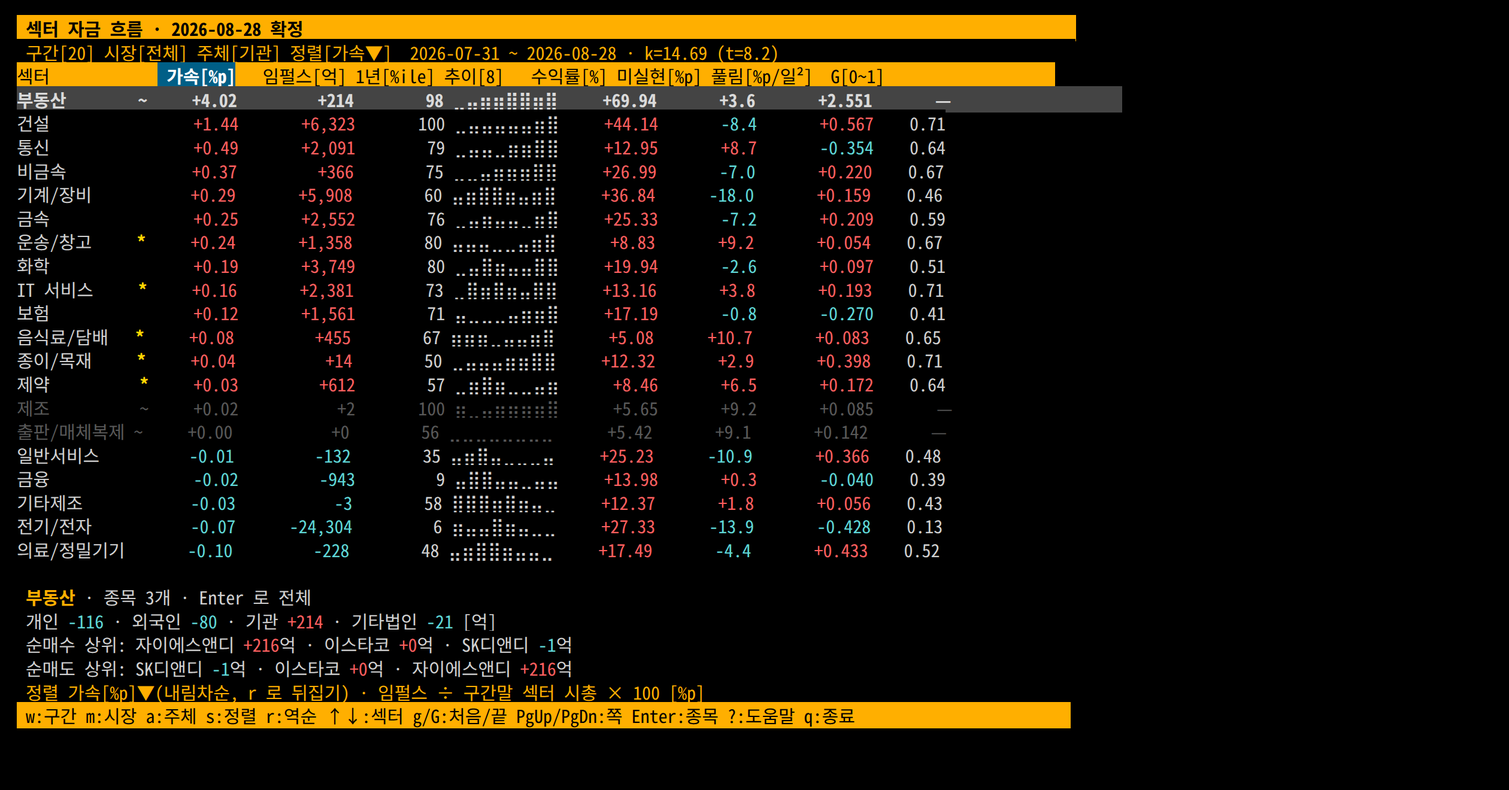
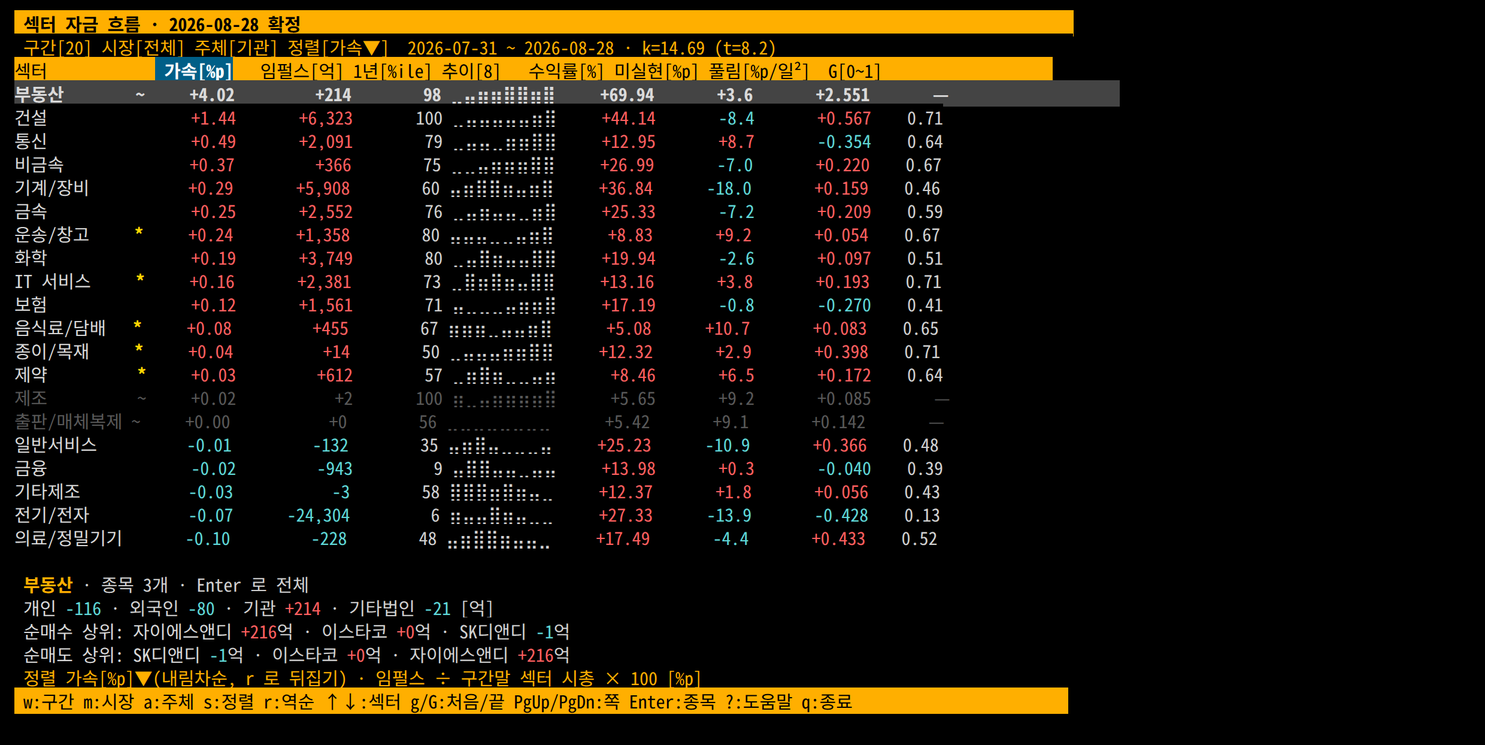
docs(readme): 화면이 넉 달 앞서 가 있었다 — 문서를 코드로 다시 맞춘다
README 를 쓴 뒤 종목 목록에 열 넷(투신·연기금·상대수익·최근집중)이 생기고
열 순서가 바뀌었는데, 문서는 옛 화면을 설명하고 스크린샷 넉 장에는 옛 화면이
그대로 박혀 있었다. 코드(`Col(...)`·`HELP`·`HINT_DESC`·`FOOTER_TIERS`)를 진실
원천으로 삼아 전문을 대조했다.

**등장 문턱을 다시 쟀다.** 적혀 있던 값은 전부 한 칸씩 작았다 — **뷰 폭**
(터미널 폭 − 1)으로 잰 것을 터미널 폭인 양 적어서, "80칸이면 보인다" 던 열이
실제 80칸에서 안 보였다. 자르기 함수에 `view_width(w)` 를 넣고 폭 40~240 을
훑어 다시 쟀다(수익률 69 · 미실현 80 · … · 종목[수] 184, 종목 목록은 참여율·
거래대금 116 · 시총 143).

**정의가 바뀐 것들.** `종목[수]` 는 상장 수가 아니라 그 구간에 거래된 수다
(드릴다운 목록 길이와 정확히 같다). `포텐셜` 은 k ≤ 0 인 블록에서 결측이다
(5일·코스닥 k=−0.587). 종합은 세 창이고 정렬이 없다(`정렬없음[G 순]`).
드릴다운 제목은 `20일 기준(종합)` 이다.

**동시성 범위를 잰 범위·잰 조건과 같이 적는다.** 표에 있던 0.17/0.23/0.24/0.47
은 근거 스크립트의 260일 값이지 화면의 범위가 아니었다 — 12조합 전수는
2~38%(개인·기관·외국인) / 41~52%(기타법인)이고, `d` 로 β제거를 켜면 셋도
17~53% 라 판정이 뒤집히는 조합이 생긴다. `기관 = 세부의 합` 이 아니라는 실측도
데이터 스키마 표에 박았다(674,480행 중 8.9%가 다르다).

**참여율은 혼자 두면 안 된다는 사실을 본문에 올렸다** — 11~14% 구간에
DB금융스팩12호(거래대금 3억)와 삼성SDI(43,543억)가 같이 있다. 그리고 새 열
넷을 사용자가 실제로 읽는 다섯 단계(금액 → 성격 → 타이밍 → 가격 → 체결
가능성)로 묶었다. 그 순서가 곧 열 순서다.

스크린샷은 tmux(120×30) → `capture-pane -p -e` → ANSI→HTML → chrome
`--headless --screenshot` 으로 다시 찍었고, `kq-ledger` 한 장을 더했다 — CLI
셋을 소개하면서 원장 화면이 없었다.

`KR_QUANT_FORCE=1 scripts/daily_report.sh` 를 §2.1 에 넣었다. 폴더가 이미
있으면 배치가 조용히 건너뛰므로, 그 문을 여는 법이 문서에 없으면 사용자는
새 열이 통째로 비어 있는 화면만 보게 된다.

검증: `uv run --extra dev pytest tests/ -q` → 516 passed, 3 skipped.
ruff·check_guardrails·prop_gate·`kq-ledger --dump --width 100` 전부 실행 확인.
상대경로 링크·앵커 전수 검사 통과(alpha-research 의 README 앵커 하나가 깨져
있어 같이 고쳤다).

Changed region(s): [[0.0, 0.0, 0.7452, 0.9775], [0.7452, 0.0916, 0.7762, 0.1527]]

diff --git a/README.md b/README.md
@@ -34,14 +34,16 @@
 ## 1. kqflow — 무엇을 보여주나
 
 `kq-flow` 는 **오늘 어느 섹터에 돈이 들어오고 나갔는지**를 한 화면에 놓는다. 27개 벤더
-섹터 × 4개 구간(5·20·60·120거래일) × 3개 시장(전체·거래소·코스닥) × 4개 주체(기관·
-외국인·개인·기타법인)를 키 하나로 갈아 끼운다.
+섹터 × 4개 구간(5·20·60·120거래일)과 이를 요약하는 `종합` × 3개 시장(전체·거래소·코스닥)
+× 4개 주체(기관·외국인·개인·기타법인)를 키 하나로 갈아 끼운다.
 
-<!-- SCREENSHOT: 기본 20일 화면 -->
-![기본 20일 화면. 섹터 이름 왼쪽부터 종목 수·G·임펄스·가속·1년 백분위·누적 추이 막대·구간 수익률·미실현·풀림, 오른쪽 끝에 그 섹터에서 가장 많이 산 종목과 금액. 가속 내림차순으로 정렬돼 있다.](docs/images/kqflow-table.png)
+<!-- SCREENSHOT: 기본 20일 화면 (120×30) -->
+![기본 20일 화면. 섹터 이름 오른쪽으로 가속·임펄스·1년 백분위·누적 추이 막대·구간
+수익률·미실현·풀림·G 가 늘어서 있고 가속 내림차순이다. 아래 패널에 선택 섹터의 4주체
+순매수와 순매수·순매도 상위 3개, 그 아래 정렬 열 한 줄 설명과 키 푸터가 있다.](docs/images/kqflow-table.png)
 
-*기본 화면(20거래일·전체 시장·기관). 한 행이 한 섹터이고, 가속 내림차순이다. 아래
-패널은 선택한 섹터의 순매수·순매도 상위 종목을 보여준다.*
+*기본 화면(20거래일·전체 시장·기관, 120×30). 한 행이 한 섹터이고, 가속 내림차순이다.
+폭 120 에는 여기까지 들어간다 — 순매수·순매도 상위는 125칸부터 나온다(§3.2).*
 
 금액만 보면 대형 섹터가 늘 이긴다. 그래서 기본 정렬은 **가속**(구간 누적 순매수 ÷ 섹터
 시총)이다 — 규모로 정규화한 유입이라 "삼성전자가 있는 섹터" 가 자동으로 1등이 되지 않는다.
@@ -49,11 +51,13 @@
 `Enter` 를 누르면 그 섹터의 전 종목이 금액순으로 펼쳐진다. 섹터 합계가 어느 종목에서
 나왔는지 — 실측상 전기/전자 386종목 중 **7개**가 그 섹터 흐름의 80%를 설명한다.
 
-<!-- SCREENSHOT: Enter 드릴다운 종목 목록 -->
-![드릴다운 종목 목록. 종목명·코드·순매수 금액·누적 기여율·참여율·시총대비·시총·거래대금
-여덟 열이 순매수 절댓값 순으로 늘어서 있고, 누적 80% 지점에 마커가 찍혀 있다.](docs/images/kqflow-names.png)
+<!-- SCREENSHOT: Enter 드릴다운 종목 목록 (120×30) -->
+![드릴다운 종목 목록. 종목명·코드·순매수·누적 기여율·투신·연기금·상대수익·최근집중·
+참여율·거래대금 열이 순매수 절댓값 순으로 늘어서 있고, 누적 80% 지점(엘앤에프)에
+`-` 마커가 찍혀 있다.](docs/images/kqflow-names.png)
 
-*`Enter` 드릴다운. 누적[%] 열의 `-` 마커 위쪽이 그 섹터를 실제로 움직인 종목이다.*
+*`Enter` 드릴다운(전기/전자, 20일). 누적[%] 열의 `-` 마커 위쪽 7개가 그 섹터를 실제로
+움직인 종목이다 — 386종목의 나머지는 스크롤할 0 이다.*
 
 DB 에 접속하지 않는다. 일일 배치가 만들어 둔 리포트 JSON 만 읽으므로 SSH 에서 즉시 뜨고,
 화면과 HTML 표가 **같은 숫자**를 본다.
@@ -79,6 +83,17 @@ scripts/daily_report.sh
 돌면 이미 있는 폴더를 보고 건너뛴다. 기본 출력 위치는 `~/Documents/kr-quant-reports/<기준일>`
 이고 `latest` 심볼릭 링크가 따라 움직인다(`KR_QUANT_REPORTS` 로 바꾼다). cron 에 그대로 건다.
 
+⚠ **리포트 형식이 바뀌면 그 건너뛰기가 발목을 잡는다.** 폴더가 이미 있으면 배치는 조용히
+넘어가므로, 열이 새로 생겨도 **다음 거래일까지 옛 리포트가 그대로 뜬다** — 화면에서는 새 열
+넷이 통째로 `—` 인 빈 칸으로 보인다(종목 목록 제목에 `옛 리포트(새 열 없음)` 가 뜬다).
+그럴 때 문을 여는 것이 `KR_QUANT_FORCE` 다.
+
+```bash
+KR_QUANT_FORCE=1 scripts/daily_report.sh     # 같은 기준일이어도 다시 만든다 (약 5~6분)
+```
+
+옆에 새로 지어 마지막에 바꿔 끼우므로, 도중에 실패하면 옛 리포트가 그대로 남는다.
+
 배치가 하는 일을 손으로 풀면 이렇다.
 
 ```bash
@@ -101,7 +116,8 @@ kq-ledger --dump --width 100     # 색 없는 평문 — 파이프·리다이렉
 
 표준 라이브러리 `curses` 만 쓴다. 새 의존성이 없고, 40×10 짜리 창에서도 산다 — 폭이
 모자라면 열이 **경계에서 통째로** 빠진다(숫자가 자릿수 중간에서 잘려 다른 값처럼 보이지
-않게). `NO_COLOR` 를 존중한다.
+않게). 원장 표만 예외로 **71칸 미만이면 안 그리고 그 사실을 적는다** — 4주체와 잔여가
+한 덩어리라, 일부만 보여주면 회계 항등식이 깨진 것처럼 읽힌다. `NO_COLOR` 를 존중한다.
 
 ## 3. 화면 읽는 법
 
@@ -120,8 +136,15 @@ kq-ledger --dump --width 100     # 색 없는 평문 — 파이프·리다이렉
 | `?` `F1` | 도움말 — 모든 열의 뜻과 계산식이 여기 있다 |
 | `q` | 종료. 도움말 안에서는 닫기만 한다 |
 
-한영 상태에서도 위 키가 그대로 듣는다. 다만 자판이 Shift 를 구분하지 않는 자리가 있어
-**대문자 역방향은 `W`·`R` 만** 된다(끝으로 가려면 End).
+한영 상태에서도 위 키가 그대로 듣는다(두벌식 자리를 그대로 대응시킨다 — `ㅈ`→`w`,
+`ㅡ`→`m`, `ㅁ`→`a`, `ㄴ`→`s`, `ㄱ`→`r`). 다만 두벌식은 이 자리들에서 Shift 를 구분하지
+않으므로 **대문자 역방향은 `W`·`R` 만** 되고 `A`·`S`·`G`·`M` 은 원리적으로 못 받는다
+(끝으로 가려면 End). `kq-ledger` 도 같다.
+
+화면 맨 아래 푸터는 폭에 맞춰 **단계별로** 줄어든다. 대문자 역방향은 **안 적는다** —
+한 키의 두 방향을 다 적으니 푸터가 길어져 정작 무슨 키가 있는지가 안 읽혔다. `g/G:처음/끝`
+은 남는다(`G` 는 `g` 의 역방향이 아니라 별개 동작이라, 안 적으면 목록 끝으로 가는 길이
+화면에서 사라진다). 어느 단계에서도 `?` 는 남으므로 줄어든 푸터가 "여기가 전부" 는 아니다.
 
 도움말(`?`)은 이 README 의 축약본이 아니라 **원본**이다. 열 하나하나의 정의와 한계가
 화면 안에 있어서, 리포트를 보다가 "이 숫자가 뭐냐" 를 물을 자리에 답이 있다.
@@ -130,18 +153,26 @@ kq-ledger --dump --width 100     # 색 없는 평문 — 파이프·리다이렉
 ![도움말 화면. 키 목록과 섹터 표 각 열의 정의가 한 줄씩 적혀 있고, 열 설명에는 계산식과
 함께 그 값의 한계(추정치·상대 지표·검증 안 됨)가 붙어 있다.](docs/images/kqflow-help.png)
 
-*`?` 도움말. 86줄을 스크롤하며 읽는다 — 열의 뜻과 그 열의 한계가 같은 자리에 있다.*
+*`?` 도움말. 130줄을 스크롤하며 읽는다 — 열의 뜻과 그 열의 한계가 같은 자리에 있다.
+`kq-ledger` 도 같은 렌더러로 자기 도움말을 그린다.*
 
 ### 3.2 섹터 표의 열
 
 화면에 나오는 **왼쪽부터의 순서**다. 폭이 모자라면 오른쪽 열부터 통째로 빠지므로,
-좁은 터미널에서는 아래 표의 뒤쪽이 없다. 실측한 등장 문턱(칸): 수익률 68 · 미실현 79 ·
-풀림 92 · G 100 · 순매수상위 124 · 순매도상위 148 · 포텐셜 161 · dW/dt 174 · 종목[수] 183.
+좁은 터미널에서는 아래 표의 뒤쪽이 없다. 실측한 등장 문턱(**터미널 칸**): 1년 49 · 추이 58 ·
+수익률 69 · 미실현 80 · 풀림 93 · G 101 · 순매수상위 125 · 순매도상위 149 · 포텐셜 162 ·
+dW/dt 175 · 종목[수] 184. 앞의 넷(섹터·마커·가속·임펄스)은 40칸에서도 남는다.
+
+> 이 숫자는 예전에 한 칸씩 작게 적혀 있었다. 뷰가 쓸 수 있는 폭은 터미널 폭 − 1 이라
+> (`view_width`, curses 가 오른쪽 아래 칸에 쓰면 스크롤한다), **뷰 폭**으로 잰 값을
+> 터미널 폭인 것처럼 적으면 "80칸이면 보인다" 던 열이 실제 80칸에서 안 보인다.
+> 위 값은 `flow_view` 의 자르기 함수(섹터 표는 `_fit(table_cols(...))`, 종목 목록은
+> `fit_names`)에 `view_width(w)` 를 넣고 폭 40~240 을 훑어 다시 잰 것이다.
 
 | 열 | 뜻 |
 |---|---|
 | 섹터 | 벤더 분류(`stocks.sector`) 27개. **KRX 업종 분류와 다르다** |
-| (마커) | 섹터 이름 오른쪽의 `~` 는 상장 종목 10개 미만, `*` 는 세 조건(a>0·x>0·ẍ>0)을 다 만족. `~` 행은 회색으로 죽인다 — 벤더 분류가 좁아 사실상 단일종목인 라벨이 있다(부동산 3, 출판/매체복제 2) |
+| (마커) | 섹터 이름 오른쪽의 `~` 는 거래된 종목 10개 미만, `*` 는 세 조건(a>0·x>0·ẍ>0)을 다 만족. `~` 행은 회색으로 죽인다 — 벤더 분류가 좁아 사실상 단일종목인 라벨이 있다(부동산 3, 출판/매체복제 2) |
 | 가속[%p] | 임펄스 ÷ 구간말 섹터 시총 × 100. 물리로 a = F/m. **기본 정렬 열**이다 |
 | 임펄스[억] | 구간 누적 순매수 = Σ(순매매 수량 × 그날 종가) |
 | 1년[%ile] | 그 주체의 롤링 N일 순매수 합이 **최근 1년 분포에서 몇 등**인가. 100=1년 최대 매수. 이 표에서 **유일한 시계열 맥락**이다(나머지는 전부 27개 섹터 사이의 상대순위) |
@@ -151,17 +182,23 @@ kq-ledger --dump --width 100     # 색 없는 평문 — 파이프·리다이렉
 | 풀림[%p/일²] | 미실현이 해소되는 가속(ẍ). 구간을 셋으로 갈라 중앙차분한다 — 2차 차분이라 짧은 구간에서 흔들린다 |
 | G[0~1] | 성장 점수. 가속·미실현·풀림 세 순위의 평균. **검증된 적 없는 탐색 지표다** |
 | 순매수/순매도상위[억] | 그 섹터에서 가장 많이 산/판 종목과 금액. 표는 1개씩, 하단 패널은 3개씩 — 같은 목록의 위/아래 끝이다 |
-| 포텐셜[½kx²] | ½·k·x². k 가 블록당 상수라 **\|미실현\| 의 순증가 변환**이다(4개 구간 전부 Spearman 1.0000) — 정보가 겹쳐서 넓은 폭에서만 나온다 |
+| 포텐셜[½kx²] | ½·k·x². k 가 블록당 상수라 **k>0 인 블록에서만** \|미실현\| 의 순증가 변환이다(실측 2026-08-28, 창 4 × 시장 3 = 12블록 전수 중 k>0 인 11블록에서 Spearman 1.0000). **k ≤ 0 인 블록에서는 이 열이 통째로 `—` 다** — 5일·코스닥이 그렇다(k=−0.587, t=−0.24: 22개 섹터 전부 U<0, ρ=−1.0000이라 "포텐셜 큰 순" 이 정반대 순서가 된다). 뜻을 잃은 값은 안 보여준다 |
 | dW/dt[%p/일] | 구간을 반으로 갈라 본 W=가속×수익률 의 변화. 힘과 운동이 정렬되는가 |
-| 종목[수] | 그 (시장,섹터)의 상장 종목 수. 오른쪽 끝 열이다 |
+| 종목[수] | 그 (시장,섹터)에서 **이 구간에 거래된** 종목 수 — `Enter` 로 여는 목록의 길이와 **정확히 같다.** '상장 종목 수' 가 아니다: 벤더 마스터에는 수급 보고가 두 달 전에 끊긴 이름이 남아 있어, 그걸 세면 표가 387 이라 하고 목록은 386 개가 된다(실측). 오른쪽 끝 열이다 |
 
-표 아래 패널은 선택한 섹터를 세 줄로 푼다.
+표 아래 패널은 선택한 섹터를 네 줄로 푼다.
 
+- **제목** — `부동산 · 종목 3개 · Enter 로 전체`. 이 줄에서 "무엇을 보고 있는가" 를 말하는
+  건 **섹터 이름 하나**뿐이라 그것만 강조하고 나머지는 죽인다. 미실현·포텐셜은 여기서
+  뺐다 — 미실현은 위 표에 이미 숫자로 있고, 포텐셜은 x 가 제곱돼 부호가 죽으므로
+  (+2.9 인 섹터와 −2.9 인 섹터가 같은 U 를 받는다) 방향이 논지인 이 줄에서 할 일이 없다.
 - **4주체 순매수** — `개인 -116 · 외국인 -80 · 기관 +214 · 기타법인 -21 [억]`. 화면은
   한 번에 한 주체만 보여주므로 "기관이 팔았다" 까지는 알아도 **누가 받았는지**는 안
   보였는데, 4주체 합이 0 에 닫히므로 그 답은 같은 페이로드 안에 이미 있다. 지금 고른
-  주체도 여기 같이 들어간다(위 표에서 보던 그 값이다). 잔여(= −Σ4주체)는 여기 안 적고
-  `kq-ledger` 가 별도 열로 맡는다. 종합 구간에서는 줄 끝에 `· 20일 기준` 이 붙는다.
+  주체도 여기 같이 들어간다(위 표에서 보던 그 값이다). 라벨은 안 붙인다 — 붙어 있던
+  `반대편:` 은 **틀린 이름이었다.** 이 줄은 선택한 주체까지 넷을 다 적는데 "반대편" 은
+  선택 주체를 뺀 나머지를 뜻한다. 잔여(= −Σ4주체)는 여기 안 적고 `kq-ledger` 가 별도
+  열로 맡는다. 종합 구간에서는 줄 끝에 `· 20일 기준` 이 붙는다.
 - **순매수 상위 / 순매도 상위** — 각각 3개씩. 표의 같은 열이 1개씩만 보여주던 목록의
   위·아래 끝이다.
 
@@ -170,19 +207,59 @@ kq-ledger --dump --width 100     # 색 없는 평문 — 파이프·리다이렉
 
 ### 3.3 종목 목록의 열 (`Enter`)
 
-| 열 | 뜻 |
-|---|---|
-| 순매수[억] | 그 구간 **선택된 주체**의 순매수. 기본 정렬은 이것의 **절댓값** 순 — 많이 산 종목과 많이 판 종목이 같이 위로 온다 |
-| 누적[%] | \|순매수\| 큰 순으로 훑을 때의 누적 기여율. `-` 마커가 80% 지점이고, 그 위가 이 섹터를 움직인 종목이다 |
-| 참여율[%] | 순매수 ÷ 그 종목 거래대금 × 100. "그 거래의 몇 %가 한 방향이었나" — 분모가 유동성이라 **살 수 있는 종목인가**를 같이 말한다 |
-| 시총대비[%p] | 순매수 ÷ 그 종목 시총 × 100. 시총 작은 스팩이 위로 올라온다 |
-| 시총 · 거래대금[억] | 위 두 열의 분모 |
+제목 줄이 먼저 `전기/전자 · 종목 386개 · 20일 기준 · 정렬[순매수]` 라고 어느 섹터·몇
+종목·어느 창·어느 정렬인지 적는다. 그 아래 열은 **왼쪽부터 이 순서**다.
+
+| 열 | 뜻 | 등장 문턱(칸) |
+|---|---|---:|
+| 종목 · 코드 | 종목명과 6자리 코드 | 40 |
+| 순매수[억] | 그 구간 **선택된 주체**의 순매수. 기본 정렬은 이것의 **절댓값** 순 — 많이 산 종목과 많이 판 종목이 같이 위로 온다 | 40 |
+| 누적[%] | \|순매수\| 큰 순으로 훑을 때의 누적 기여율. 바로 옆 1칸 열의 `-` 마커가 80% 지점이고, 그 위가 이 섹터를 움직인 종목이다. **순매수 정렬에서만** 채운다 — 시총·이름 순의 누적은 뜻이 없다 | 45 |
+| 투신[억] | 그 구간 **투신**(자산운용)의 순매수. **선택 주체와 무관하게** 늘 기관 세부다 | 56 |
+| 연기금[억] | 그 구간 **연기금**(국민연금 등)의 순매수 | 67 |
+| 상대수익[%p] | 종목 구간수익률 − **섹터** 구간수익률. 기준선은 섹터 표의 `수익률[%]` 열과 **같은 값**이다. 섹터의 미실현(x)을 종목에 내리지 않는다 — 그 k·b 는 27개 섹터 횡단면에서 적합된 것이지 2,645종목 위에서 적합된 적이 없다. 뺄셈이 회귀 없이 같은 질문에 답한다 | 80 |
+| 최근집중[%] | 5일 순매수 ÷ **이 창**의 순매수 × 100. 20일 화면에서 ≈25 면 고르게 분산(꾸준히 담는 중) · ≈100 이면 20일치가 최근 5일에 몰림 · >100 이면 앞에서는 팔다 최근에 방향을 튼 것 · **음수면** 최근 5일이 구간 전체와 반대 방향. 세 자리에서 비운다 — 분모 1억 미만 · 5일 창(분자=분모라 늘 100) · 그 목록 Σ\|순매수\| 의 0.5% 미만인 줄(볼 이유가 없는 줄이 화면에서 가장 큰 숫자를 달던 자리다). ±999 를 넘으면 `>999`·`<-999` 로 적는다 | 92 |
+| 참여율[%] | 순매수 ÷ 그 종목 거래대금 × 100. "얼마나 붐볐나" 가 아니라 **"그 거래의 몇 %가 한 방향이었나"** 다 | 116 |
+| 거래대금[억] | 참여율의 분모. 참여율과 **한 짝**이라 같이 남거나 같이 빠진다(아래) | 116 |
+| 시총대비[%p] | 순매수 ÷ 그 종목 시총 × 100. 시총 작은 스팩이 위로 올라온다 | 129 |
+| 시총[억] | 시총대비의 분모 | 143 |
+
+**투신·연기금이 왜 따로 있나.** 기관 총액이 같아도 이 둘이 채운 것과 금투(증권사
+자기매매 — 헤지·차익이 섞여 방향성이 약하다)가 채운 것은 다른 이야기인데, `기관` 한
+덩어리에는 그 구분이 없다. 실측 20거래일: **SK하이닉스 기관 −13,157억인데 투신 +1,549 ·
+연기금 +4,614 · 금투 −22,611** 이다 — 총액만 보면 "판다" 지만 이 둘은 사고 있었다.
+
+#### 열 순서가 곧 읽는 순서다
+
+위 다섯 덩어리는 화면에서 실제로 훑는 순서와 같다.
+
+1. **순매수 · 누적** — 순매수 순으로 열고 `-` 마커(누적 80%) **위만** 본다. 전기/전자는
+   386종목 중 7개다. 아래는 스크롤할 0 이다.
+2. **투신 · 연기금** — 자금의 **성격**을 거른다. 그 7개가 투신·연기금이 채운 것인지
+   금투가 채운 것인지로 같은 금액이 다른 이야기가 된다.
+3. **최근집중** — **타이밍**. 20일치를 꾸준히 담았나(≈25), 최근 5일에 몰아 샀나(≈100),
+   앞에서 팔다 방향을 틀었나(>100).
+4. **상대수익** — **가격**. 섹터는 갔는데 이 종목은 안 갔나, 이미 갔나.
+5. **참여율 + 거래대금** — **체결 가능성**. 한 방향으로 얼마나 먹었고, 그 종목이 애초에
+   그만한 돈을 받아 줄 수 있는가.
+
+⚠ **참여율은 혼자 두면 안 된다.** 비율이라 유동성을 못 말한다 — 실측(2026-08-28, 20일)
+참여율 **11~14% 구간에 DB금융스팩12호(20일 거래대금 3억)와 삼성SDI(43,543억)가 같이
+있다.** 유동성이 1만 배 넘게 다른데 화면에는 같은 숫자만 남는다. 참여율만 보고 "기관이
+장악했다" 로 읽으면 살 수 없는 종목이 상단에 섞인다. 그래서 두 열은 `COL_PAIRS` 로
+묶여 **통째로 남거나 통째로 빠진다** — 폭이 모자라 거래대금이 떨어지면 참여율도 같이
+사라진다. "덜 보여준다" 가 아니라 **틀리게 읽힐 칸을 안 만든다**는 규칙이다.
+
+옛 리포트로 화면을 띄우면 새 열 넷(투신·연기금·상대수익·최근집중)이 통째로 `—` 이고,
+제목에 `· 옛 리포트(새 열 없음)` 가 붙는다. 고장이 아니라 그 리포트가 이 열들이 생기기
+전에 만들어진 것이다 — 다시 만드는 방법은 [§2.1](#21-리포트-만들기-db-필요) 에 있다.
 
 ⚠ **`종합` 에서 `Enter` 로 들어간 종목 목록은 20일 기준이다.** 종합은 세 창을 섞은
 축이라 "이 종목이 얼마를 샀나" 가 한 값으로 정의되지 않는다. 그래서 드릴다운은 20일
-창의 금액을 쓴다(`flow_view.py` 의 `win = self.window if self.window != "종합" else "20"`).
-60·120일 금액을 보려면 `w` 로 그 구간에 들어간 뒤 `Enter` 를 눌러라. 종합 화면의 상세
-패널도 같은 이유로 4주체 줄 끝에 `· 20일 기준` 을 달고 있다.
+창의 금액을 쓰고, 제목도 `20일 기준(종합)` 이라 적는다(`flow_view.py` 의
+`State.COMBINED_WIN = "20"`). 60·120일 금액을 보려면 `w` 로
+그 구간에 들어간 뒤 `Enter` 를 눌러라. 종합 화면의 상세 패널도 같은 이유로 4주체 줄
+끝에 `· 20일 기준` 을 달고 있다.
 
 ### 3.4 `종합` 구간
 
@@ -195,17 +272,19 @@ kq-ledger --dump --width 100     # 색 없는 평문 — 파이프·리다이렉
 (`sector_numbers.py:381-383`) 5일이 저절로 빠진다. **누가 5일을 빼기로 결정한 것이 아니라
 2차 차분이 5일치 데이터를 못 받는 것이다.**
 
-<!-- SCREENSHOT: 종합 구간 -->
-![종합 구간 화면. 섹터마다 종합 G 와 20일·60일·120일 각각의 G, 세 조건을 만족한 창의
-수(통과[구간]), 종목 수만 있는 좁은 표.](docs/images/kqflow-combined.png)
+<!-- SCREENSHOT: 종합 구간 (120×30) -->
+![종합 구간 화면. 헤더가 정렬없음[G 순] · 구간 20·60·120일 등가중 이라 적혀 있고,
+섹터마다 종합 G 와 20일·60일·120일 각각의 G, 세 조건을 만족한 창의 수(통과[구간]),
+종목 수만 있는 좁은 표.](docs/images/kqflow-combined.png)
 
 *`종합` 화면. 열이 G 뿐인 것은 뜻이 있다 — 한 창에서만 좋은 섹터와 세 창에서 내내 좋은
 섹터를 갈라 보는 화면이라, 금액·수익률은 개별 구간 화면이 답한다.*
 
 **이 화면에는 정렬이 없다.** `종합 G` 내림차순 고정이고 `s`·`r` 은 듣지 않는다 —
-화면도 그렇게 말한다(방향 화살표를 아예 안 그린다). 창마다 정렬 축이 달라지면 "세 창을
-나란히 본다" 는 이 화면의 용도가 무너지기 때문이다. 금액·수익률로 줄을 세우려면 `w` 로
-개별 구간에 들어가라.
+화면도 그렇게 말한다. 헤더가 `정렬[가속▼]` 대신 **`정렬없음[G 순]`** 이라 적고 방향
+화살표를 아예 안 그리며, 힌트바 자리에는 `종합 화면은 구간별 G 를 나란히 볼 뿐,
+정렬·역순이 없다` 가 뜬다. 창마다 정렬 축이 달라지면 "세 창을 나란히 본다" 는 이 화면의
+용도가 무너지기 때문이다. 금액·수익률로 줄을 세우려면 `w` 로 개별 구간에 들어가라.
 
 ## 4. 자금 원장 — `kq-ledger`
 
@@ -224,23 +303,41 @@ kq-ledger --dump --width 100     # 색 없는 평문 — 파이프·리다이렉
 | 주체 → 주체 이전 | 주변합이 독립 3식인데 쌍별 이전량은 6개다 — 해공간이 3차원 남는 **미식별** |
 | 잔차를 4주체에 안분 | 안분하면 측정되지 않은 주체가 측정된 주체의 옷을 입는다. `잔여 = −Σ4주체` 를 별도 열로 남긴다 |
 
-첫 번째는 원론에 더해 **실측이 전제를 부정한다.** 섹터쌍 순매수 상관에서 음수 쌍의 비율:
+첫 번째는 원론에 더해 **실측이 전제를 부정한다.** 섹터쌍 순매수 상관에서 음수 쌍의 비율을
+시장 3 × 구간 4 = **12조합 전수**로 잰 범위다(2026-08-28, β제거 끈 상태).
 
-| 주체 | 관측 | 순환이동 널 |
+| 주체 | 관측(12조합 전수) | 순환이동 널 |
 |---|---:|---:|
-| 개인 | 0.17 | 0.50 |
-| 기관 | 0.23 | 0.50 |
-| 외국인 | 0.24 | 0.50 |
-| 기타법인 | 0.47 | 0.50 |
+| 개인 · 기관 · 외국인 | 2 ~ 38% | 50% |
+| 기타법인 | 41 ~ 52% | 50% |
 
 **개인·기관·외국인에서는 섹터가 서로 반대가 아니라 같이 움직인다** — 반대로 간 쌍이 우연보다
 **드물다.** 공통요인(위험선호)이 지배한다는 뜻이고, "로테이션" 을 전제한 산키 다이어그램은
-그 셋에 대해 없는 현상을 그리는 셈이다. 기타법인 0.47 은 널 0.50 과 구분되지 않아 어느
+그 셋에 대해 없는 현상을 그리는 셈이다. 기타법인 41~52% 는 널 50% 와 구분되지 않아 어느
 방향으로도 말할 것이 없다.
+
+⚠ **범위에는 조건이 붙는다.** 화면에서 `d` 로 β제거를 켜면 같은 12조합에서 셋도 17~53%
+가 되어 널(49~55%)과 구분되지 않는 조합이 생긴다 — "널보다 드물다" 는 판정 자체가 그
+설정에서는 유지되지 않는다. 예전 README·화면이 적던 `17~34%` 는 **잰 적 없는 좁은
+범위**였다(근거 스크립트의 260일 값을 화면의 범위인 양 옮겨 적은 것이다). 실측 주장은
+**잰 범위·잰 조건과 같이** 적어야 한다. 그래서 화면은 숫자를 외우게 하지 않고, 고른
+주체·구간에 대해 **상단 판정줄**이 그때그때 답한다.
 
 이 실측은 문서에 적어두는 대신 [`scripts/ledger_numbers.py`](scripts/ledger_numbers.py) 로
 재현한다 — 숫자가 바뀌면 설계도 다시 봐야 하기 때문이다. 한계는 각주가 아니라 **모든 화면
 최하단에 상주하는 한 줄**로 둔다.
+
+<!-- SCREENSHOT: kq-ledger 원장 화면 (120×30) -->
+![kq-ledger 원장 화면. 섹터마다 개인·외국인·기관·기타법인 순매수와 잔여·잔여몫·최대일몫·
+종목수, 오른쪽 끝에 선택 주체의 발산 막대. 최대일몫이 균등의 3배를 넘으면 ! 가 붙는다.
+맨 아래 줄에 관측·미관측이 상주한다.](docs/images/kqledger-table.png)
+
+*`kq-ledger` 원장 화면(20거래일·전체 시장·개인, 120×30). `kq-flow` 와 배색·여백·푸터·
+힌트바·제목 강조를 공유하고, 도움말도 같은 렌더러가 그린다. `잔여몫`·`최대일몫` 은
+분모(구간 gross)가 **1억 미만이면 값을 안 낸다** — 4주체가 서로 상쇄돼 분모가 0 근처로
+내려가면 비율이 폭발해 `최대일몫 33.3!` 같은 뜻 없는 값이 뜬다. `종목[수]` 는
+`kq-flow` 와 같은 정의(그 구간에 거래된 종목 수)다. `v` 로 **원장 · 전개 · 동시성 ·
+한계** 네 화면을 돈다 — 위 상관표는 `동시성` 화면이고, `d` 가 거기서 β제거를 켠다.*
 
 ## 5. 숫자의 정의
 
@@ -280,7 +377,10 @@ kq-ledger --dump --width 100     # 색 없는 평문 — 파이프·리다이렉
   같이 올라온다.
 - **금액은 종가 환산 근사다.** DB 는 수량만 준다(참값은 VWAP 가중).
 - **값 0 은 "관망"이 아니라 "0 또는 미보고"다** — 수집기가 파싱 실패를 0으로 준다.
-- **10종목 미만 섹터는 섹터로 읽지 않는다.** 벤더 분류가 좁아 사실상 단일종목인 라벨이 있다.
+- **그 구간에 거래된 종목이 10개 미만인 섹터는 섹터로 읽지 않는다**(`~` 마커·회색·G 순위
+  제외). 벤더 분류가 좁아 사실상 단일종목인 라벨이 있다(부동산 3, 출판/매체복제 2).
+- **`포텐셜`·`잔여몫`·`최대일몫`·`최근집중` 은 뜻을 잃는 자리에서 값을 안 낸다.** k ≤ 0 인
+  블록, 분모 1억 미만 — 고쳐 쓰지 않고 **결측으로 둔다.** 빈 칸은 고장이 아니다.
 
 ## 7. 리포트를 스스로 검증한다
 
@@ -345,7 +445,9 @@ src/kr_quant/
 ├── engine/ validation/ diagnostics/ features/ strategies/   # 알파 심사 라이브러리
 └── tui/                 # kq-flow · kq-ledger
     ├── flow_view.py     #   렌더는 순수함수 — curses 없이 단위테스트한다
-    └── flow_app.py      #   curses 는 화면 그리기와 키 입력만
+    ├── flow_app.py      #   curses 는 화면 그리기와 키 입력만
+    ├── ledger_view.py   #   원장도 같은 규칙 — 폭 자르기·도움말 렌더러는 공용이다
+    └── ledger_app.py
 scripts/                 # sector_flow · sector_numbers · verify_report · daily_report.sh
                          # ledger_numbers · check_guardrails · verify_merge
 research/                # 신호 정의 · 실험 러너 · VERDICT/TRIALS 원장
@@ -363,8 +465,8 @@ TUI 를 고친 뒤에는 [`scripts/verify_merge.py <워크트리>`](scripts/veri
 스크리너 제품이 아니라 관측·검증 도구라 그 밖의 엔트리포인트는 없다.
 
 ```bash
-uv run pytest                        # 네트워크·DB 불요 — 460건
-uv run ruff check .
+uv run --extra dev pytest            # 네트워크·DB 불요 — 516 통과 · 3 skip
+uv run --extra dev ruff check .
 uv run python scripts/check_guardrails.py    # 경계·판정·정문·하버스·신원 규율 검사
 ```
 

diff --git a/docs/alpha-research.md b/docs/alpha-research.md
@@ -327,7 +327,7 @@ CI 가 깨진다.
 - **만드는 것과 연결하는 것은 다른 일이다.** 반복된 실패 모드는 기능 부재가 아니라 배선 누락이었다. 그래서 지금은 배선이 빠지면 CI가 실패한다(§5).
 - **분포적 사고.** 평균이나 자본곡선이 아니라 개별 트레이드 분포로 보면 같은 데이터가 다르게 읽힌다. 볼록형/확산형 구분, 꼬리 집중도, 선험적 예측력은 이 렌즈에서만 드러난다.
 - **음성대조라는 규율.** "내 전략이 랜덤보다 나은가"는 단순하지만 대부분의 자기기만을 잡아낸다(순수 노이즈가 폴드 기준을 46% 통과한다).
-- **부류를 막는 검사.** 증상 하나를 고치는 대신 "두 값이 같은 집합·시점에서 나왔는가"를 코드가 매일 묻게 한다 — 일일 리포트의 D 계층 검증이 그것이다([README](../README.md#리포트를-스스로-검증한다)).
+- **부류를 막는 검사.** 증상 하나를 고치는 대신 "두 값이 같은 집합·시점에서 나왔는가"를 코드가 매일 묻게 한다 — 일일 리포트의 D 계층 검증이 그것이다([README](../README.md#7-리포트를-스스로-검증한다)).
 - **엔지니어링 토대.** PIT 데이터·무룩어헤드·읽기전용 분리·경계 린트·CI.
 - **무엇을 하지 않을지 아는 것.** 재현되지 않는 전략을 일찍 접는 것은 실패가 아니라 자본과 시간의 절약이다. VOID 판정처럼 **"이 데이터로는 심사 자체가 불가능하다"를 말할 수 있는 것**도 포함된다.
 
@@ -336,7 +336,7 @@ CI 가 깨진다.
 | 테이블 | 용도 |
 |---|---|
 | `stocks` | code, name, market, sector, kind. **현재 상장 마스터** — 조인하면 폐지 종목이 빠진다 |
-| `supply_demand` | 투자자별 수급 (개인·외국인·기관 + 기관 세부 8종, PK: code+date). 값은 **수량**이다 |
+| `supply_demand` | 투자자별 수급 (개인·외국인·기관 + 기관 세부 8종, PK: code+date). 값은 **수량**이다. ⚠ **`institution` 은 세부의 합이 아니다** — 벤더가 주는 기관 합계를 그대로 싣는다. 실측(260일): 674,480행 중 60,021행(**8.9%**)에서 둘이 다르고 Σ\|차이\| 가 Σ\|기관\| 의 **2.9%** 다. 세부에 없는 항목이 합계에는 들어 있다는 뜻이라, 세부를 더해 검산하면 안 맞는다 |
 | `daily_bars` / `daily_bars_adjusted` | OHLCV; 분할조정본은 `price_adjust.py` 생성. `source`가 `'kiwoom'`(상장 종목, 보고된 거래대금) / `'naver'`(폐지 종목 백필, 거래대금은 `close×volume` 근사)를 구분한다 |
 | `earnings` | DART 실적 (avail_date 기준 룩어헤드 없음) — PEAD 소스. PK는 `(code, period, knowledge_date)`로, 정정공시는 기존 행을 덮어쓰지 않고 새 버전으로 쌓인다 — 읽을 때 `knowledge_date <= t`로 그 시점에 알 수 있었던 값을 고른다 |
 | `consensus` | 목표주가·투자의견·forward EPS 일별 축적 |
